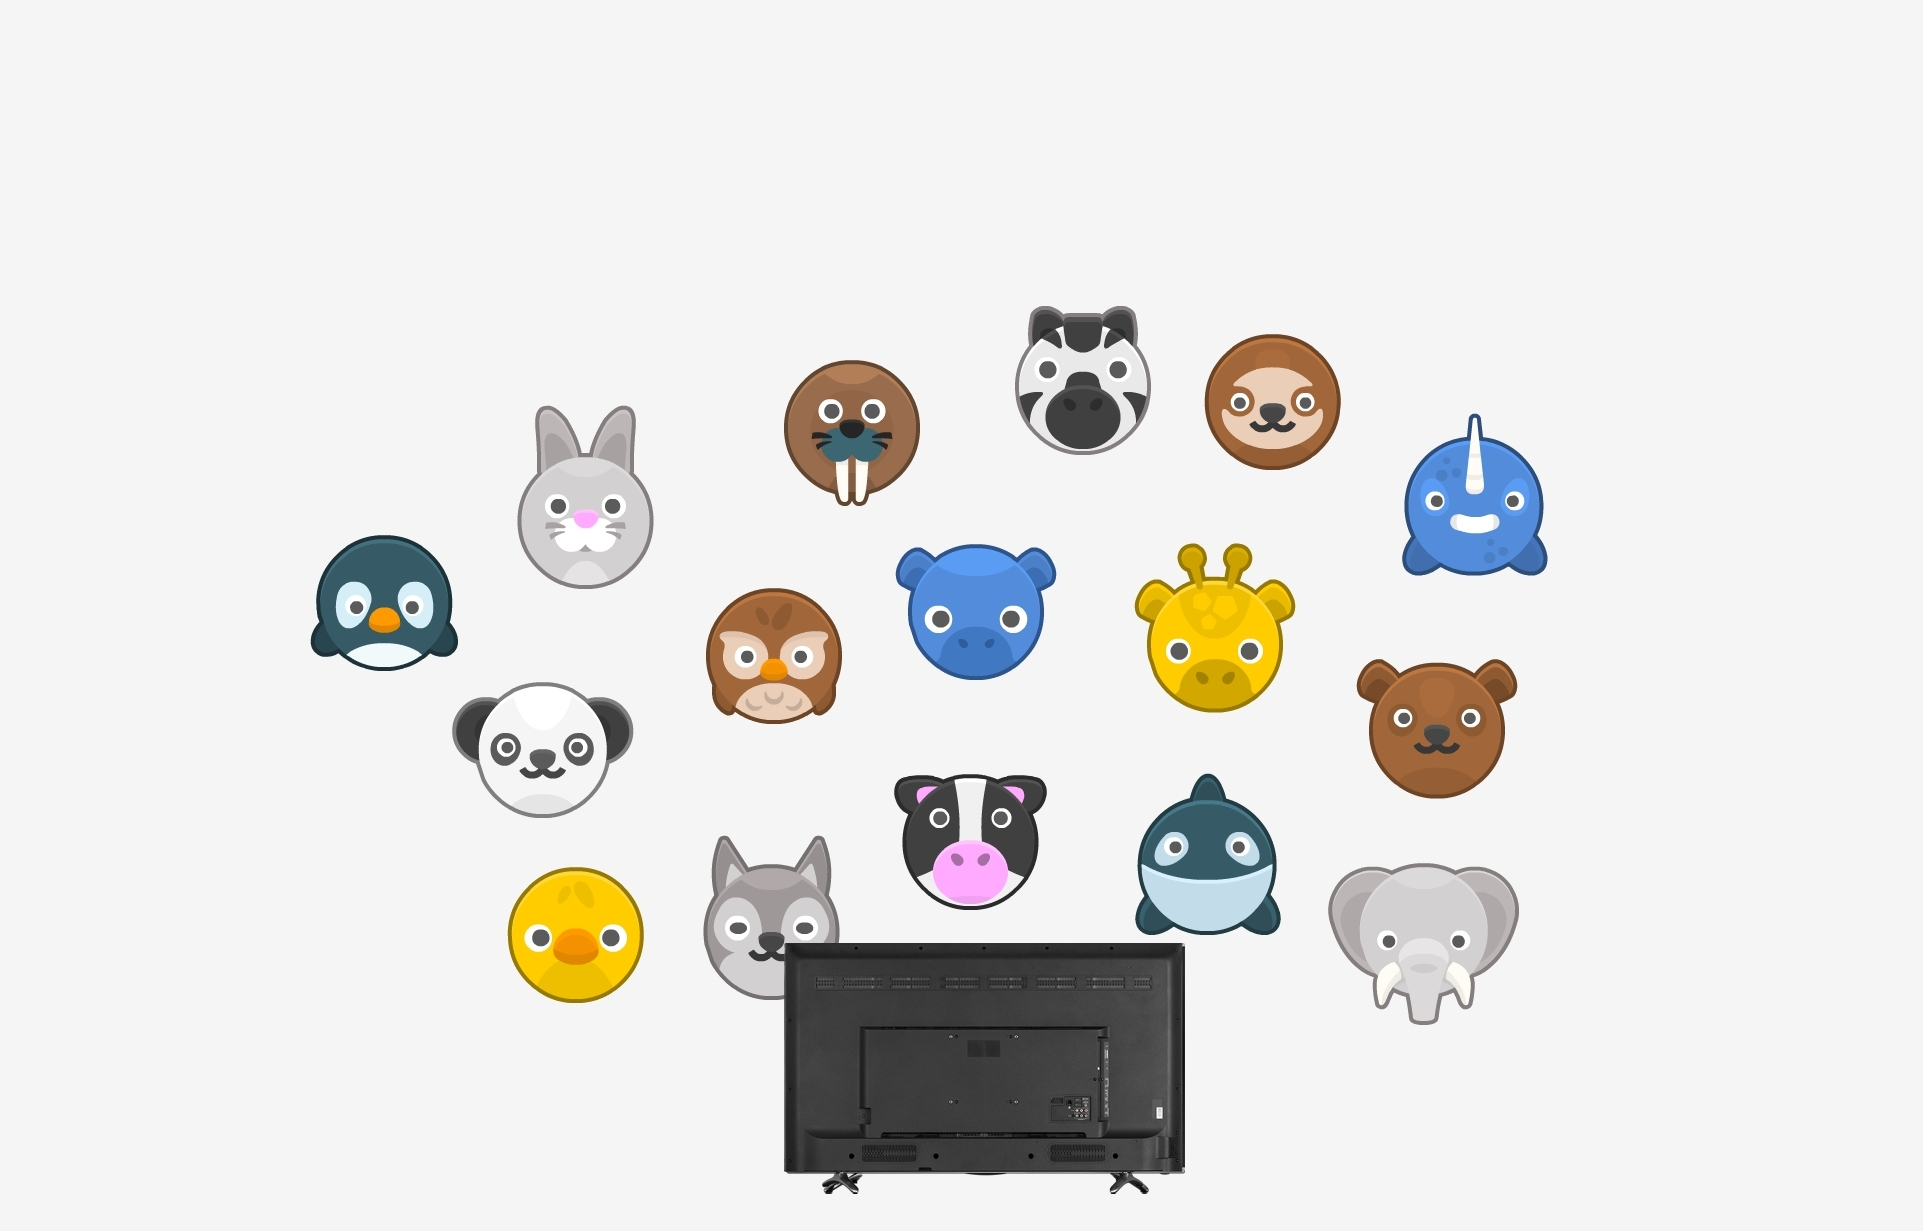
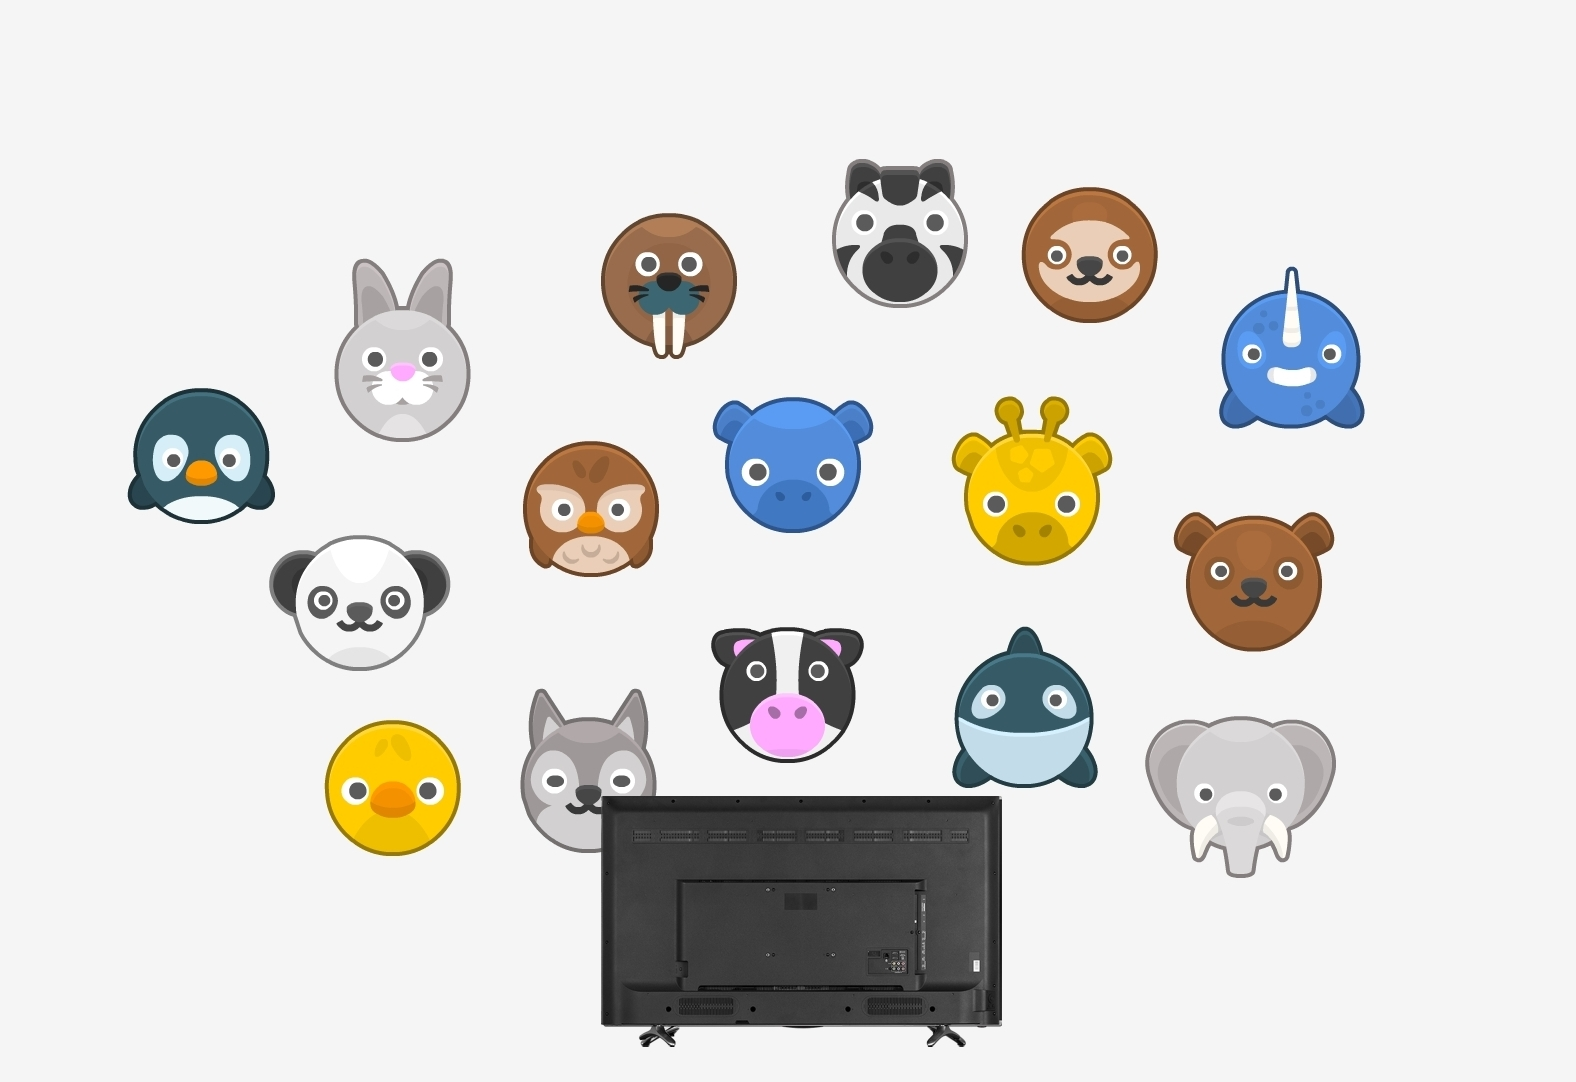
styled the error 500 page

Changed region(s): [[0.0622, 0.1525, 0.8706, 0.976]]

diff --git a/public/stylesheets/style.css b/public/stylesheets/style.css
@@ -15,6 +15,7 @@ button {
   background-color: #99122d;
 }
 
+/* navbar */
 nav,
 footer {
   background-color: #99c0b2;
@@ -194,7 +195,7 @@ footer > p {
   align-items: center;
   margin-top: -20rem;
   margin-left: 71.5rem;
-}  
+}
 
 .animalFacts {
   margin-bottom: 2rem;
@@ -211,7 +212,7 @@ footer > p {
   width: 22rem;
 }
 
-.confirmDeleting{
+.confirmDeleting {
   display: flex;
   margin-left: -9rem;
   top: -300rem;
@@ -219,7 +220,6 @@ footer > p {
   justify-content: space-around;
   width: 22rem;
 }
-
 
 /*Profile*/
 .containerProfile {
@@ -273,10 +273,11 @@ ul {
   text-align: left;
   display: flex;
   background-image: url(../images/tv.jpg);
-  background-position: bottom 0.3rem right -13rem;
-  background-size: 100% 100%;
-  width: 72%;
-  height: 85%;
+  background-position: center;
+  background-size: contain;
+  background-repeat: no-repeat;
+  width: 100%;
+  height: 80%;
   margin-top: 36px;
   margin-left: 36px;
 }
